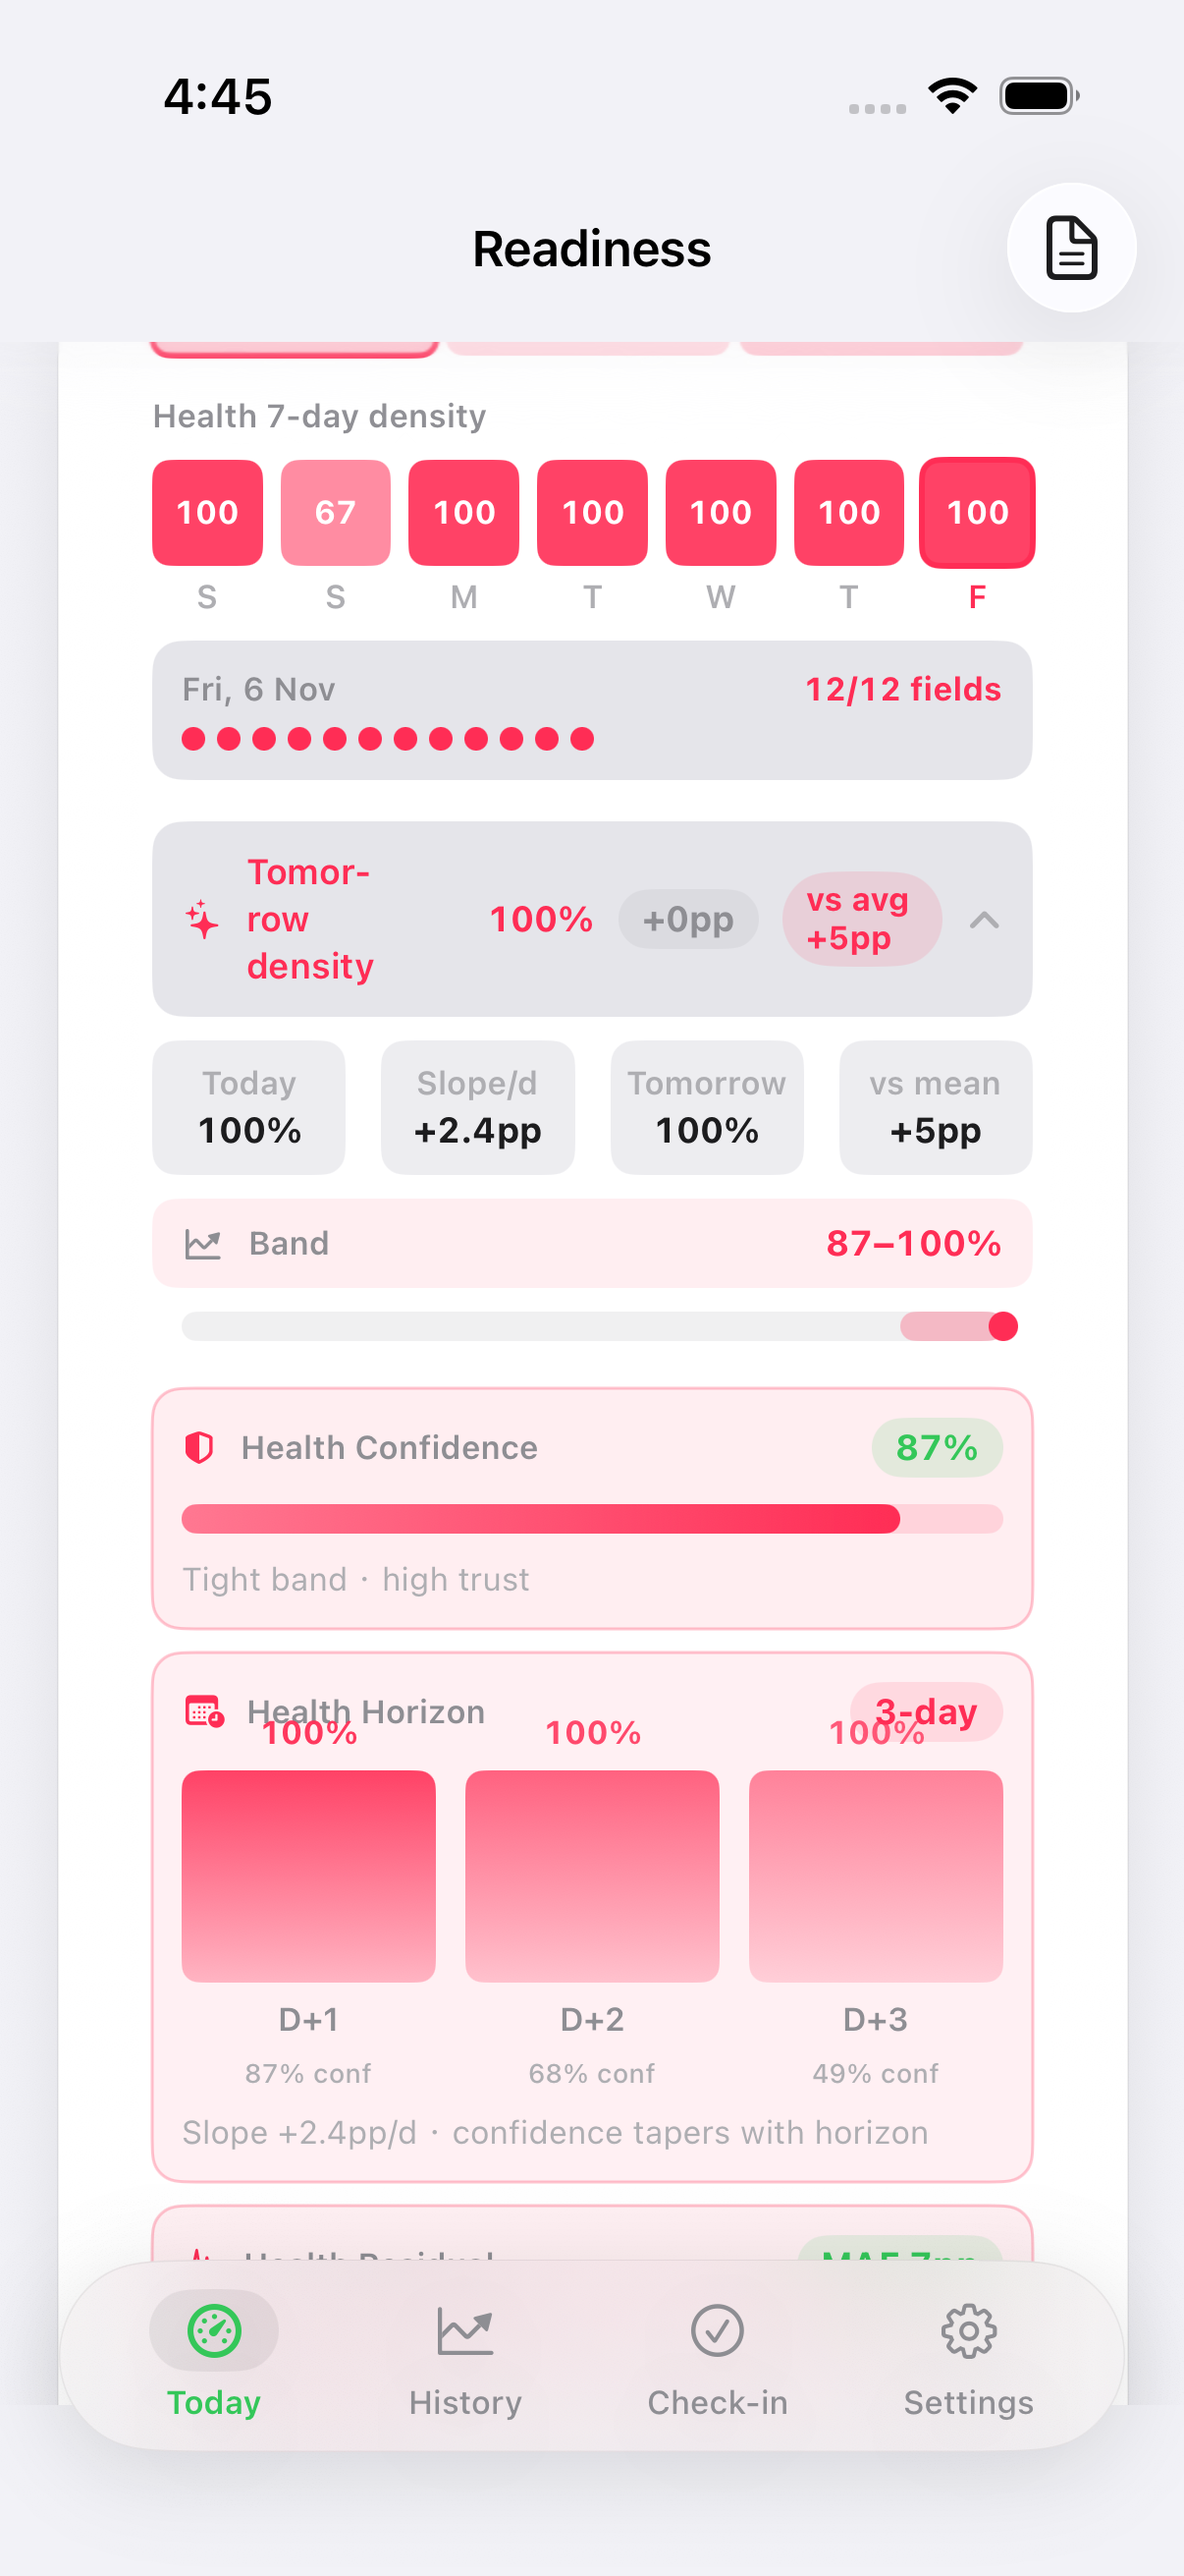
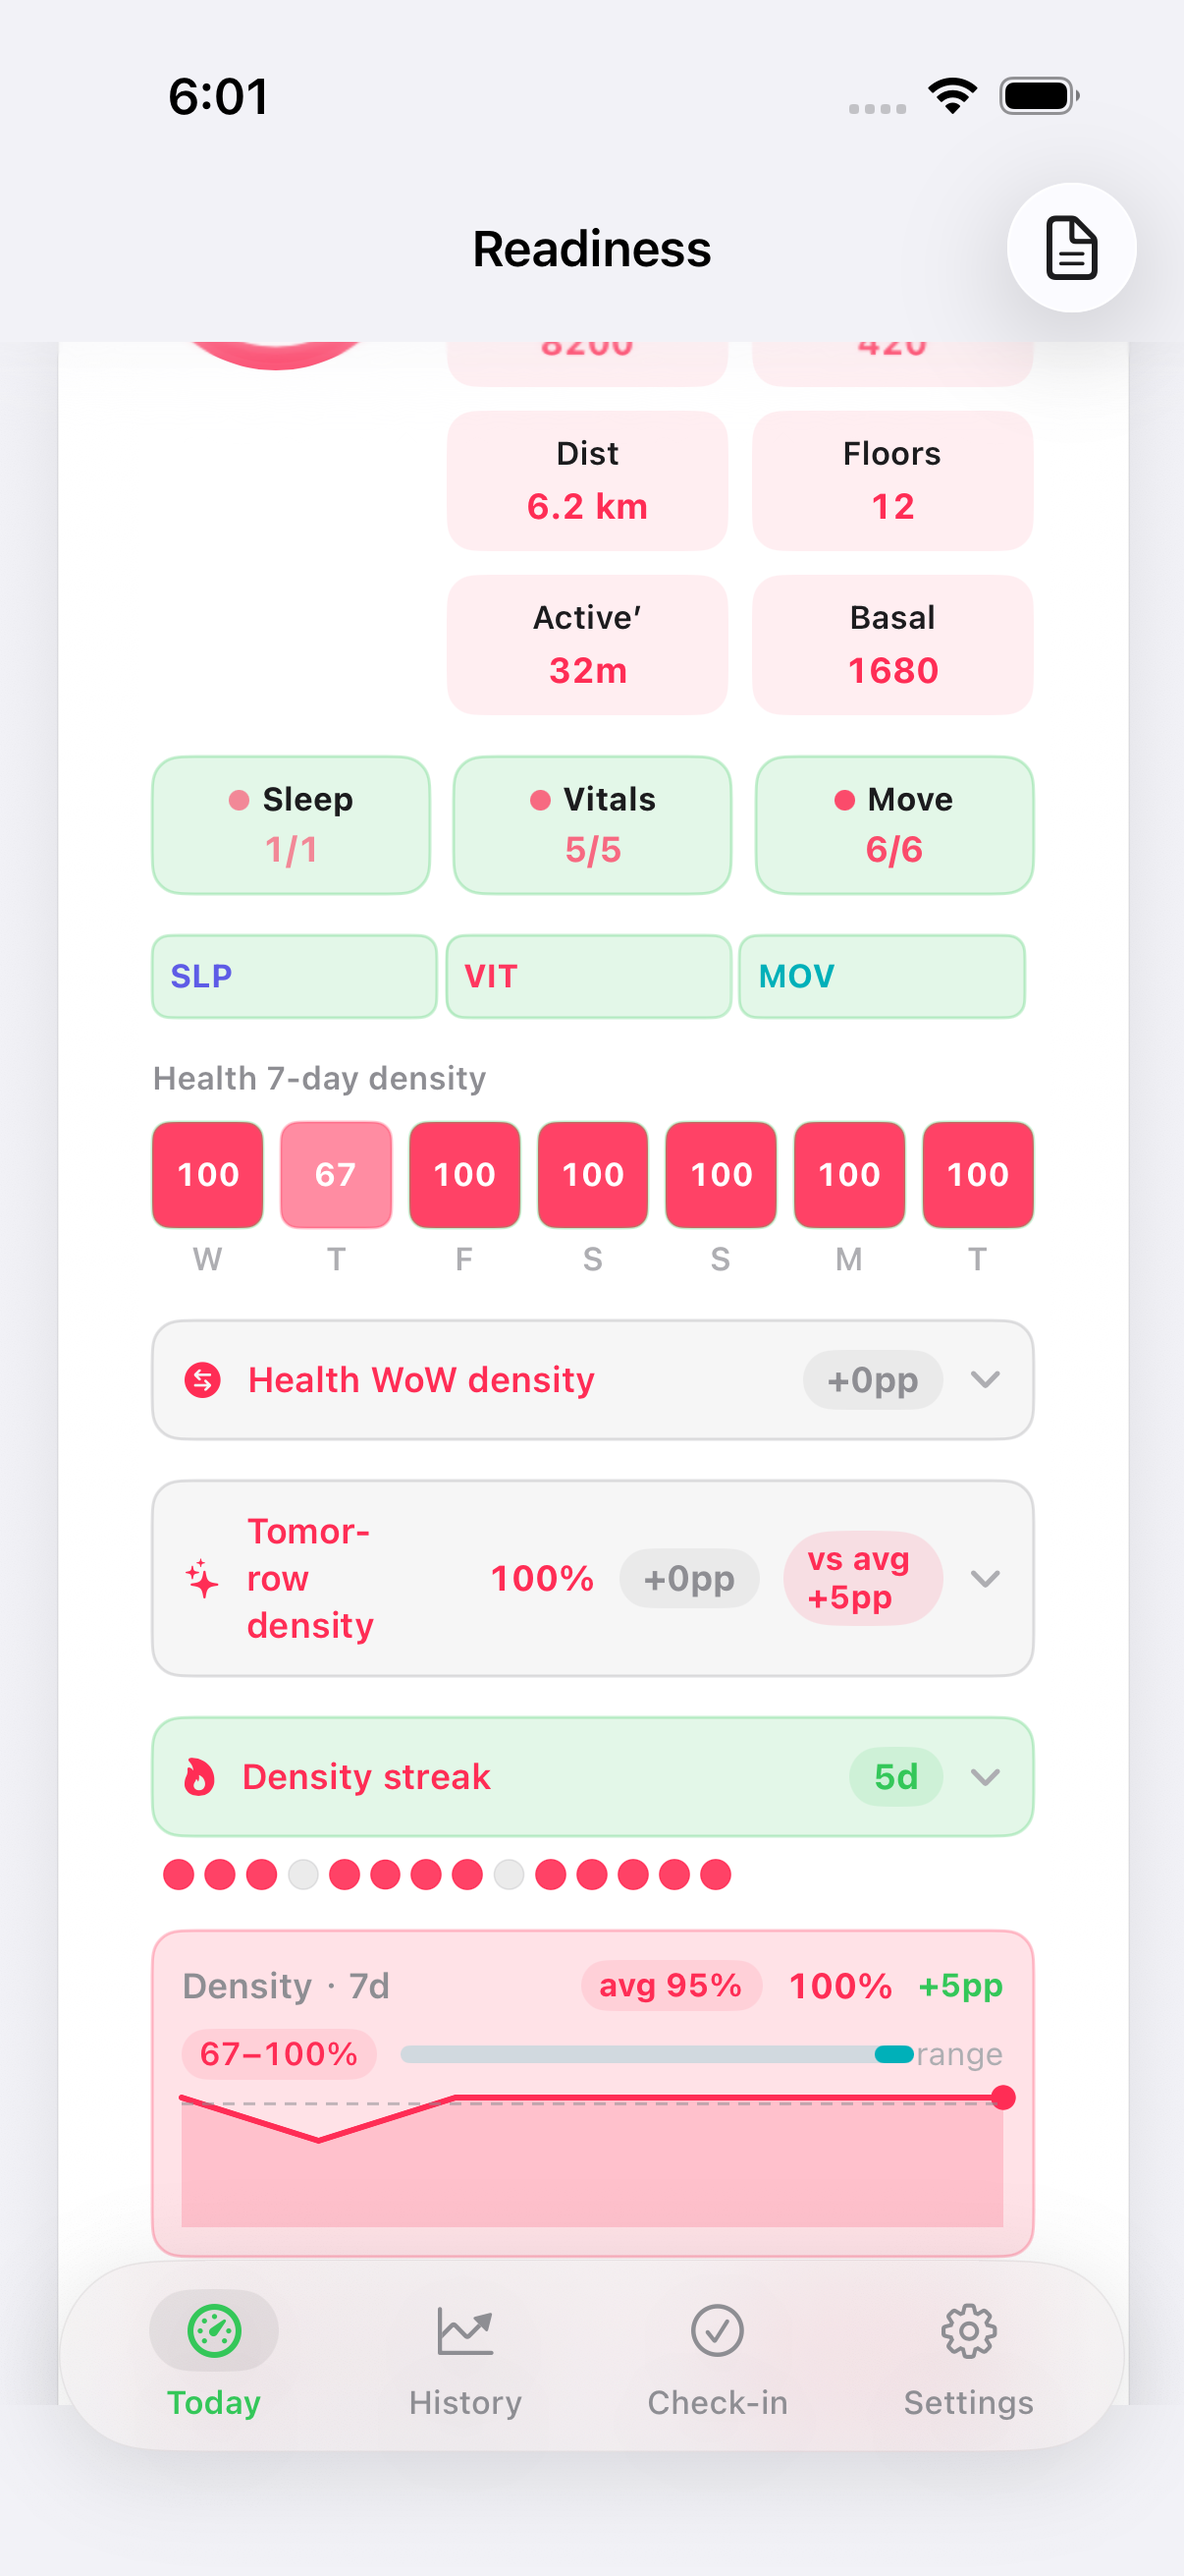
Honest #799: Density history spark (WHOOP wells) (#829)
Chrome-only restyle of the existing fitbit.air.density.spark /
health.air.density.spark container. The spark PATH already encodes
history and is left intact (not flattened to a uniform 8/14 wash).
Idle (no density > 0 in the window) ghost/hairline 8/28 secondaryText;
else/partial (has history) 14/28 accent. No natural complete/negative
state — a history path is not a fill-complete or up/down badge.
Mean/range capsules keep their existing tones. Copy,
accessibilityIdentifier, accessibilityLabel, scrub/period math,
and READY formula unchanged.

UITest testDensityHistorySpark passed 194.050s, 0
failures (observer 206.540s) on iPhone 17 Pro.
testReadinessLoadSimulatorSurface passed 814.135s, 0 failures
(observer 819.731s) on iPhone 17 Pro. Proof:
.audit/verify-density-spark.png

Changed region(s): [[0.1227, 0.1236, 0.8897, 0.865], [0.1534, 0.0309, 0.2454, 0.0618]]

diff --git a/ReadinessTrackerUITests/SurfacesUITests.swift b/ReadinessTrackerUITests/SurfacesUITests.swift
@@ -18616,6 +18616,50 @@ func testPeakHeartRateCardMetricDetailNavSurface() throws {
     }
 
 
+    /// Honest #799: WHOOP wells on existing density history spark.
+    /// Tight path to fitbit.air.density.spark / health.air.density.spark
+    /// on the Air card (below heatmap + WoW + forecast + streak). Avoids the long
+    /// testFitbitAirDataCardSurface walk that hangs on spark swipe-down
+    /// after Honest #790. After the Air title is on-screen, further swipes
+    /// originate in the upper third so the spark's DragGesture cannot eat
+    /// the scroll.
+    func testDensityHistorySpark() throws {
+        _ = app.staticTexts["Readiness"].waitForExistence(timeout: 8)
+        let titleFitbit = app.staticTexts["Fitbit Air"]
+        let titleHealth = app.staticTexts["Health Air"]
+        // Titles exist in the scroll hierarchy off-screen at launch; scroll until
+        // one is actually in the visible window (exists-only loops never moved).
+        var n = 0
+        while !(isOnScreen(titleFitbit) || isOnScreen(titleHealth)) && n < 30 {
+            app.swipeUp()
+            n += 1
+        }
+        XCTAssertTrue(isOnScreen(titleFitbit) || isOnScreen(titleHealth),
+                      "Fitbit Air / Health Air on-screen")
+
+        let sparkFitbit = app.descendants(matching: .any)["fitbit.air.density.spark"].firstMatch
+        let sparkHealth = app.descendants(matching: .any)["health.air.density.spark"].firstMatch
+        let sparkTitle = app.staticTexts.matching(NSPredicate(format: "label BEGINSWITH %@", "Density ·")).firstMatch
+        // Spark sits just under the streak badge. Streak used at most
+        // 12 swipes from the title; a few more reach the spark. Swipes
+        // stay in the upper third so we never swipe-down on the spark.
+        var h = 0
+        while !(isOnScreen(sparkFitbit) || isOnScreen(sparkHealth) || isOnScreen(sparkTitle)) && h < 16 {
+            let window = app.windows.firstMatch
+            let start = window.coordinate(withNormalizedOffset: CGVector(dx: 0.5, dy: 0.28))
+            let end = window.coordinate(withNormalizedOffset: CGVector(dx: 0.5, dy: 0.12))
+            start.press(forDuration: 0.01, thenDragTo: end)
+            h += 1
+        }
+        XCTAssertTrue(sparkFitbit.exists || sparkHealth.exists
+                      || sparkTitle.exists
+                      || app.staticTexts.matching(NSPredicate(format: "label CONTAINS[c] %@", "density history spark")).count > 0,
+                      "fitbit.air.density.spark / health.air.density.spark")
+        saveShot("verify-density-spark.png")
+        if sparkFitbit.exists { saveShot("verify-fitbit-air-data-density-spark.png") }
+        if sparkHealth.exists { saveShot("verify-health-air-density-spark.png") }
+    }
+
     private func revealText(_ text: String) {
 
         let el = app.staticTexts[text]

diff --git a/ReadinessTracker/Views/WhoopFeatures/FitbitAirDataCard.swift b/ReadinessTracker/Views/WhoopFeatures/FitbitAirDataCard.swift
@@ -1907,6 +1907,19 @@ struct FitbitAirDataCard: View {
         let sparkAccent: Color = isHealthSpark ? Color(hex: "FF2D55") : accent
         let sparkSID = isHealthSpark ? SurfaceID.healthAirDensitySpark : SurfaceID.fitbitAirDataDensitySpark
         let sparkLabel = isHealthSpark ? "Health air density history spark" : "Air density history spark"
+        // Honest #799: WHOOP wells on the existing density history spark container.
+        // The spark PATH already encodes history (AreaMark 0.18, LineMark,
+        // PointMark, mean RuleMark) and is left intact — not flattened to a
+        // uniform 8/14 wash. Labels and mean/range capsules keep their existing
+        // tones so contrast holds (no white text on a light wash).
+        // Idle (no density > 0 in the window) ghost/hairline 8/28 secondaryText;
+        // else/partial (has history) 14/28 accent. No natural complete/negative
+        // state — a history path is not a fill-complete or up/down badge.
+        let wellIsIdle = !points.contains(where: { $0.density > 0 })
+        let wellTone: Color = wellIsIdle ? RTColor.secondaryText : sparkAccent
+        let wellFill: Color = wellIsIdle
+            ? RTColor.secondaryText.opacity(0.08)
+            : wellTone.opacity(0.14)
         // Honest #677: appleWatch / HealthKit uses Health pink + health.air.density.spark.mean (#556 parity).
         let isHealthMean = source == .appleWatch
         let meanColor: Color = isHealthMean ? Color(hex: "FF2D55") : RTColor.secondaryText
@@ -2046,6 +2059,12 @@ struct FitbitAirDataCard: View {
                     .foregroundStyle(RTColor.tertiaryText)
             }
         }
+        .padding(10)
+        .background(wellFill, in: RoundedRectangle(cornerRadius: 10, style: .continuous))
+        .overlay(
+            RoundedRectangle(cornerRadius: 10, style: .continuous)
+                .stroke(wellTone.opacity(0.28), lineWidth: 1)
+        )
         .accessibilityIdentifier(sparkSID)
         .accessibilityLabel(sparkLabel)
     }

diff --git a/ReadinessTracker/Design/Theme.swift b/ReadinessTracker/Design/Theme.swift
@@ -382,7 +382,7 @@ enum SurfaceID {
     static let healthAirDensityStack = "health.air.density.stack"  // Honest #686 / #793
     static let healthAirDensityWow = "health.air.density.wow"  // Honest #687 / #798
     static let healthAirDensityHeatDay = "health.air.density.heat.day"  // Honest #688 / #795
-    static let healthAirDensitySpark = "health.air.density.spark"  // Honest #689
+    static let healthAirDensitySpark = "health.air.density.spark"  // Honest #689 / #799
     static let healthAirDensityLegend = "health.air.density.legend"  // Honest #690 / #792
     static let healthAirDensity = "health.air.density"  // Honest #691
     static let healthAirDensityCats = "health.air.density.cats"  // Honest #633 / #791
@@ -427,7 +427,7 @@ enum SurfaceID {
     static let fitbitAirChipSparkScrub = "fitbit.air.chip.spark.scrub"  // Honest #532
     static let healthAirChipSparkScrub = "health.air.chip.spark.scrub"  // Honest #702
     static let fitbitAirDataDensityLegend = "fitbit.air.density.legend"  // Honest #513 / #792
-    static let fitbitAirDataDensitySpark = "fitbit.air.density.spark"  // Honest #514
+    static let fitbitAirDataDensitySpark = "fitbit.air.density.spark"  // Honest #514 / #799
     static let fitbitAirDataStrip = "fitbit.air.strip"  // Honest #497 / #787
     static let healthAirDataStrip = "health.air.strip"  // Honest #708 / #787
     static let fitbitAirDataCard = "fitbit.air.card"  // Honest #498 unique

diff --git a/.audit/decision-log-2026-11-04.md b/.audit/decision-log-2026-11-04.md
@@ -651,3 +651,11 @@
 | 17:32 HKT | #798 density wow badge | prove | starting UITest testReadinessLoadSimulatorSurface /tmp/RT-DD798; model=deepseek-flash | mid-ship |
 | 17:46 HKT | #798 density wow badge | prove | UITest testReadinessLoadSimulatorSurface green /tmp/RT-DD798 (779.731s, 0 failures; observer 786.153s); model=deepseek-flash |
 | 17:46 HKT | #798 density wow badge | land | proof PNG + receipt; SID fitbit.air.density.wow / health.air.density.wow; PR squash next; model=deepseek-flash |
+
+| 17:52 HKT | Honest #799 density history spark | model=deepseek-flash | restyle existing fitbit.air.density.spark / health.air.density.spark after density wow #798; WHOOP wells on the spark container only; spark PATH encoding left intact (not flattened to 8/14 wash); idle (no density > 0 in window) ghost/hairline 8/28 secondaryText; else/partial (has history) 14/28 accent; no natural complete/negative state (history path is not a fill-complete or up/down badge); mean/range capsules keep existing tones; mechanical pattern-copy of #798/#795 container chrome applied locally (no separate model iterate needed) | mid-ship |
+| 17:52 HKT | Honest #799 density history spark | prove | starting build-for-testing /tmp/RT-DD799; model=deepseek-flash | mid-ship |
+| 17:57 HKT | #799 density history spark | prove | starting tight UITest testDensityHistorySpark /tmp/RT-DD799; model=deepseek-flash | mid-ship |
+| 18:01 HKT | #799 density history spark | prove | UITest testDensityHistorySpark green /tmp/RT-DD799 (194.050s, 0 failures; observer 206.540s); proof /tmp/rt-audit/verify-density-spark.png (health.air.density.spark); model=deepseek-flash |
+| 18:01 HKT | #799 density history spark | prove | starting UITest testReadinessLoadSimulatorSurface /tmp/RT-DD799; model=deepseek-flash | mid-ship |
+| 18:18 HKT | #799 density history spark | prove | UITest testReadinessLoadSimulatorSurface green /tmp/RT-DD799 (814.135s, 0 failures; observer 819.731s); model=deepseek-flash |
+| 18:18 HKT | #799 density history spark | land | proof PNG + receipt; SID fitbit.air.density.spark / health.air.density.spark; PR squash next; model=deepseek-flash |

diff --git a/.audit/density-spark.md b/.audit/density-spark.md
@@ -1,0 +1,11 @@
+# Honest #514 / #689 / #799: Density history spark (WHOOP wells)
+
+Fitbit/Health air density history spark under the streak badge (below heatmap + WoW + forecast).
+Chrome-only WHOOP wells on the existing Honest #514 / #689 spark container.
+The spark PATH already encodes history (AreaMark 0.18, LineMark, PointMark, mean RuleMark) and is left intact — not flattened to a uniform 8/14 wash.
+Idle (no density > 0 in the window) = ghost/hairline 8/28 secondaryText; else/partial (has history) = 14/28 accent.
+No natural complete/negative state — a history path is not a fill-complete or up/down badge.
+Mean and range capsules keep their existing tones. Label contrast holds (no white text on a light wash).
+Copy, accessibilityIdentifier, accessibilityLabel, scrub/period math, and READY formula unchanged. No new SID.
+SurfaceID: `fitbit.air.density.spark` / `health.air.density.spark`
+Proof: `.audit/verify-density-spark.png`

diff --git a/.audit/features/health-air-density-spark.md b/.audit/features/health-air-density-spark.md
@@ -1,7 +1,9 @@
-# Honest #689: Health Air density spark
+# Honest #689 / #799: Health Air density spark (WHOOP wells)
 
-History density% spark — Health pink / Google Health graphics.
+History density% spark — Health pink / Google Health graphics. Chrome-only WHOOP wells on the existing container.
+Idle (no density > 0 in the window) = ghost/hairline 8/28 secondaryText; else/partial (has history) = 14/28 accent.
+No natural complete/negative state. Spark PATH encoding left intact.
 SurfaceID: `health.air.density.spark`
 Parity: Fitbit #514 (`fitbit.air.density.spark`)
-Proof: `.audit/verify-health-air-density-spark.png`
+Proof: `.audit/verify-density-spark.png` / `.audit/verify-health-air-density-spark.png`
 model=deepseek-flash

diff --git a/.audit/health-air-density-spark.md b/.audit/health-air-density-spark.md
@@ -1,7 +1,9 @@
-# Honest #689: Health Air density spark
+# Honest #689 / #799: Health Air density spark (WHOOP wells)
 
-History density% spark — Health pink / Google Health graphics.
+History density% spark — Health pink / Google Health graphics. Chrome-only WHOOP wells on the existing container.
+Idle (no density > 0 in the window) = ghost/hairline 8/28 secondaryText; else/partial (has history) = 14/28 accent.
+No natural complete/negative state. Spark PATH encoding left intact.
 SurfaceID: `health.air.density.spark`
 Parity: Fitbit #514 (`fitbit.air.density.spark`)
-Proof: `.audit/verify-health-air-density-spark.png`
+Proof: `.audit/verify-density-spark.png` / `.audit/verify-health-air-density-spark.png`
 model=deepseek-flash

diff --git a/.audit/features/density-spark.md b/.audit/features/density-spark.md
@@ -1,0 +1,8 @@
+# Honest #514 / #689 / #799: Density history spark (WHOOP wells)
+
+Chrome-only WHOOP wells on the existing density history spark (`fitbit.air.density.spark` / `health.air.density.spark`).
+The spark PATH already encodes history and is left intact (not flattened to a uniform 8/14 wash).
+Idle (no density > 0 in the window) = ghost/hairline 8/28 secondaryText; else/partial (has history) = 14/28 accent.
+No natural complete/negative state. Mean/range capsules keep existing tones. Copy, accessibilityIdentifier, accessibilityLabel, scrub/period math, and READY formula unchanged.
+SurfaceID: `fitbit.air.density.spark` / `health.air.density.spark`
+Proof: UITest → `.audit/verify-density-spark.png`

diff --git a/.audit/fitbit-air-density-spark.md b/.audit/fitbit-air-density-spark.md
@@ -1,4 +1,3 @@
-Honest #514: Fitbit Air density history spark
+Honest #514 / #799: Fitbit Air density history spark (WHOOP wells)
 SurfaceID fitbit.air.density.spark
-Proof: UITest testFitbitAirDataCardSurface PASS iPhone 17 Pro 26.5
-.audit/verify-fitbit-air-data-density-spark.png
+Proof: UITest testDensityHistorySpark → .audit/verify-density-spark.png / .audit/verify-fitbit-air-data-density-spark.png
